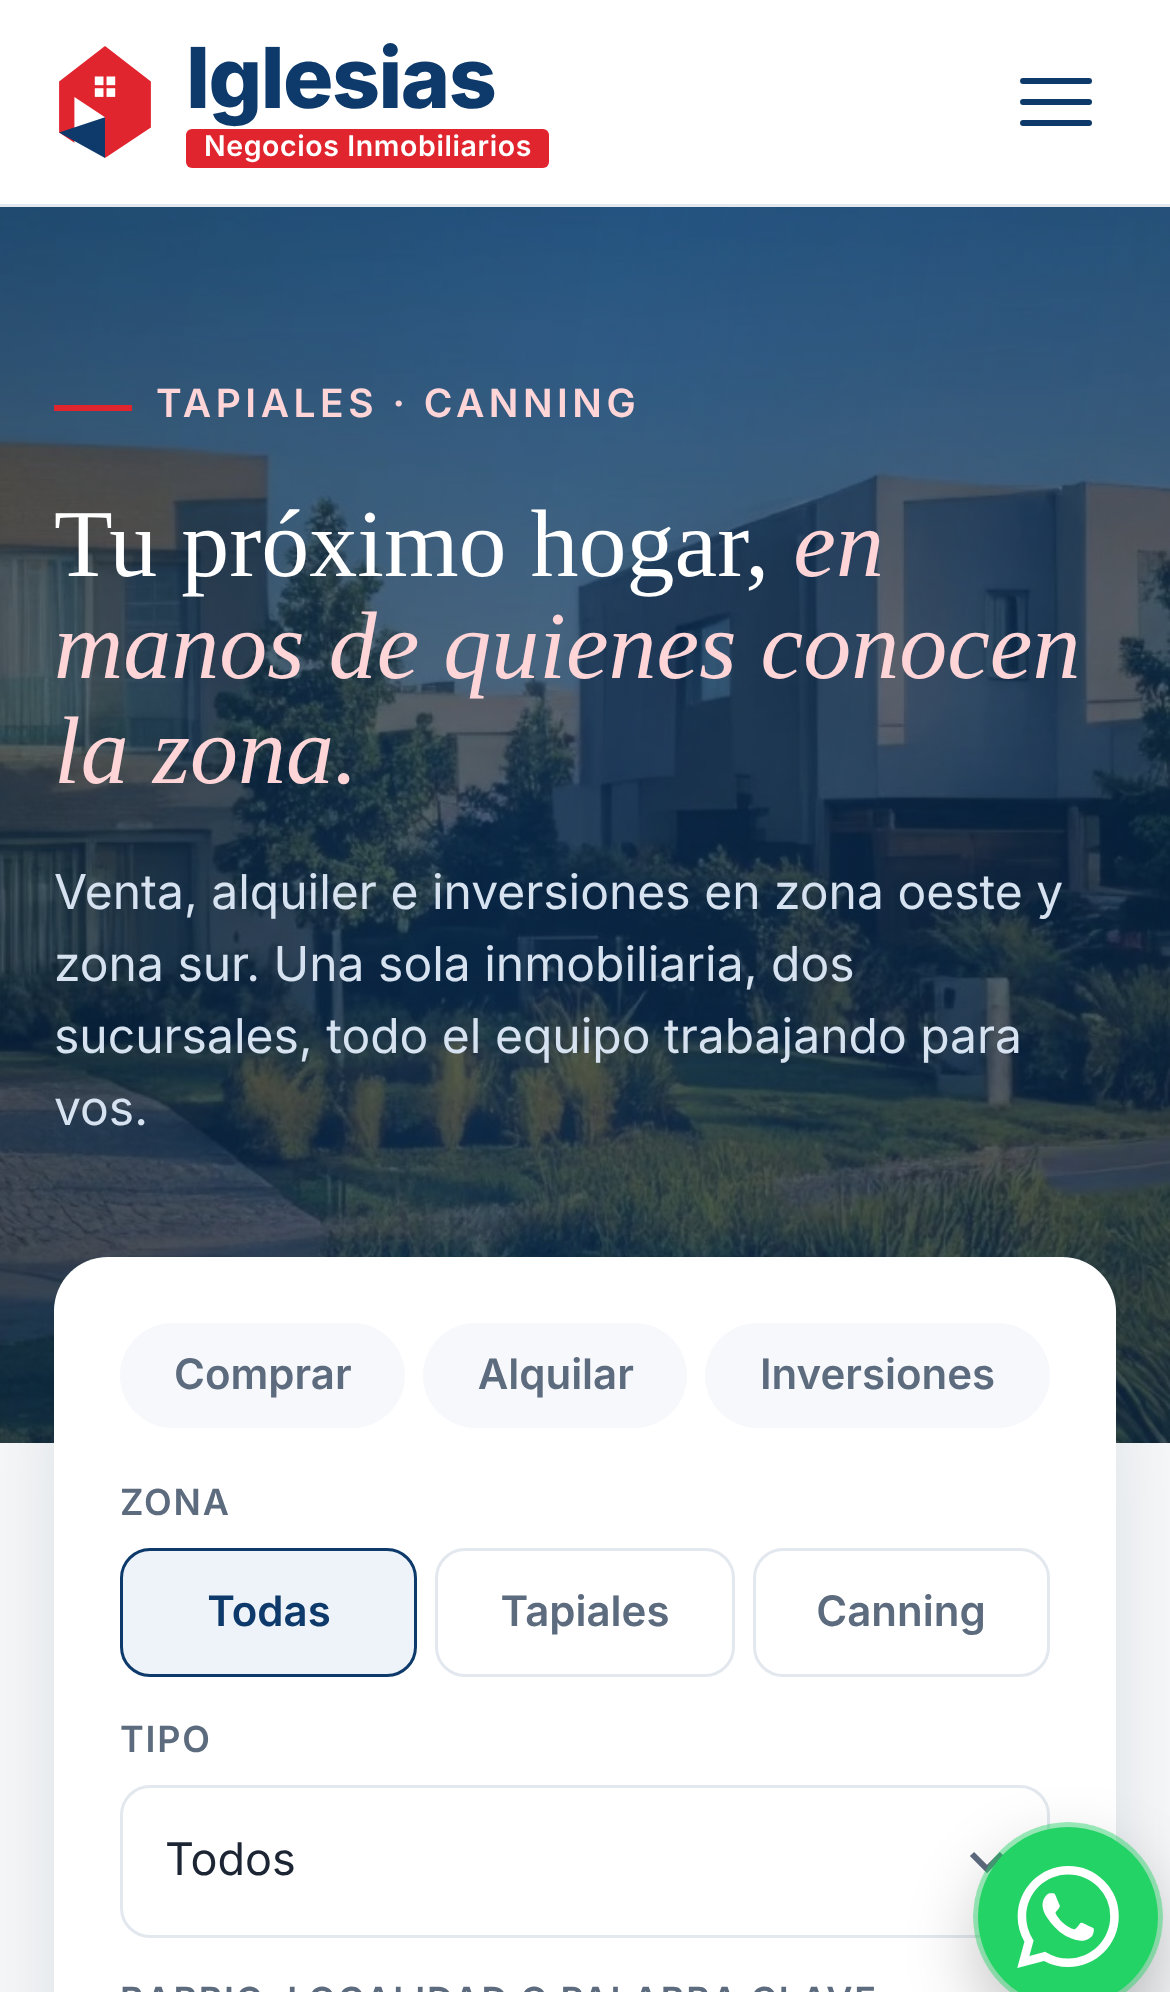
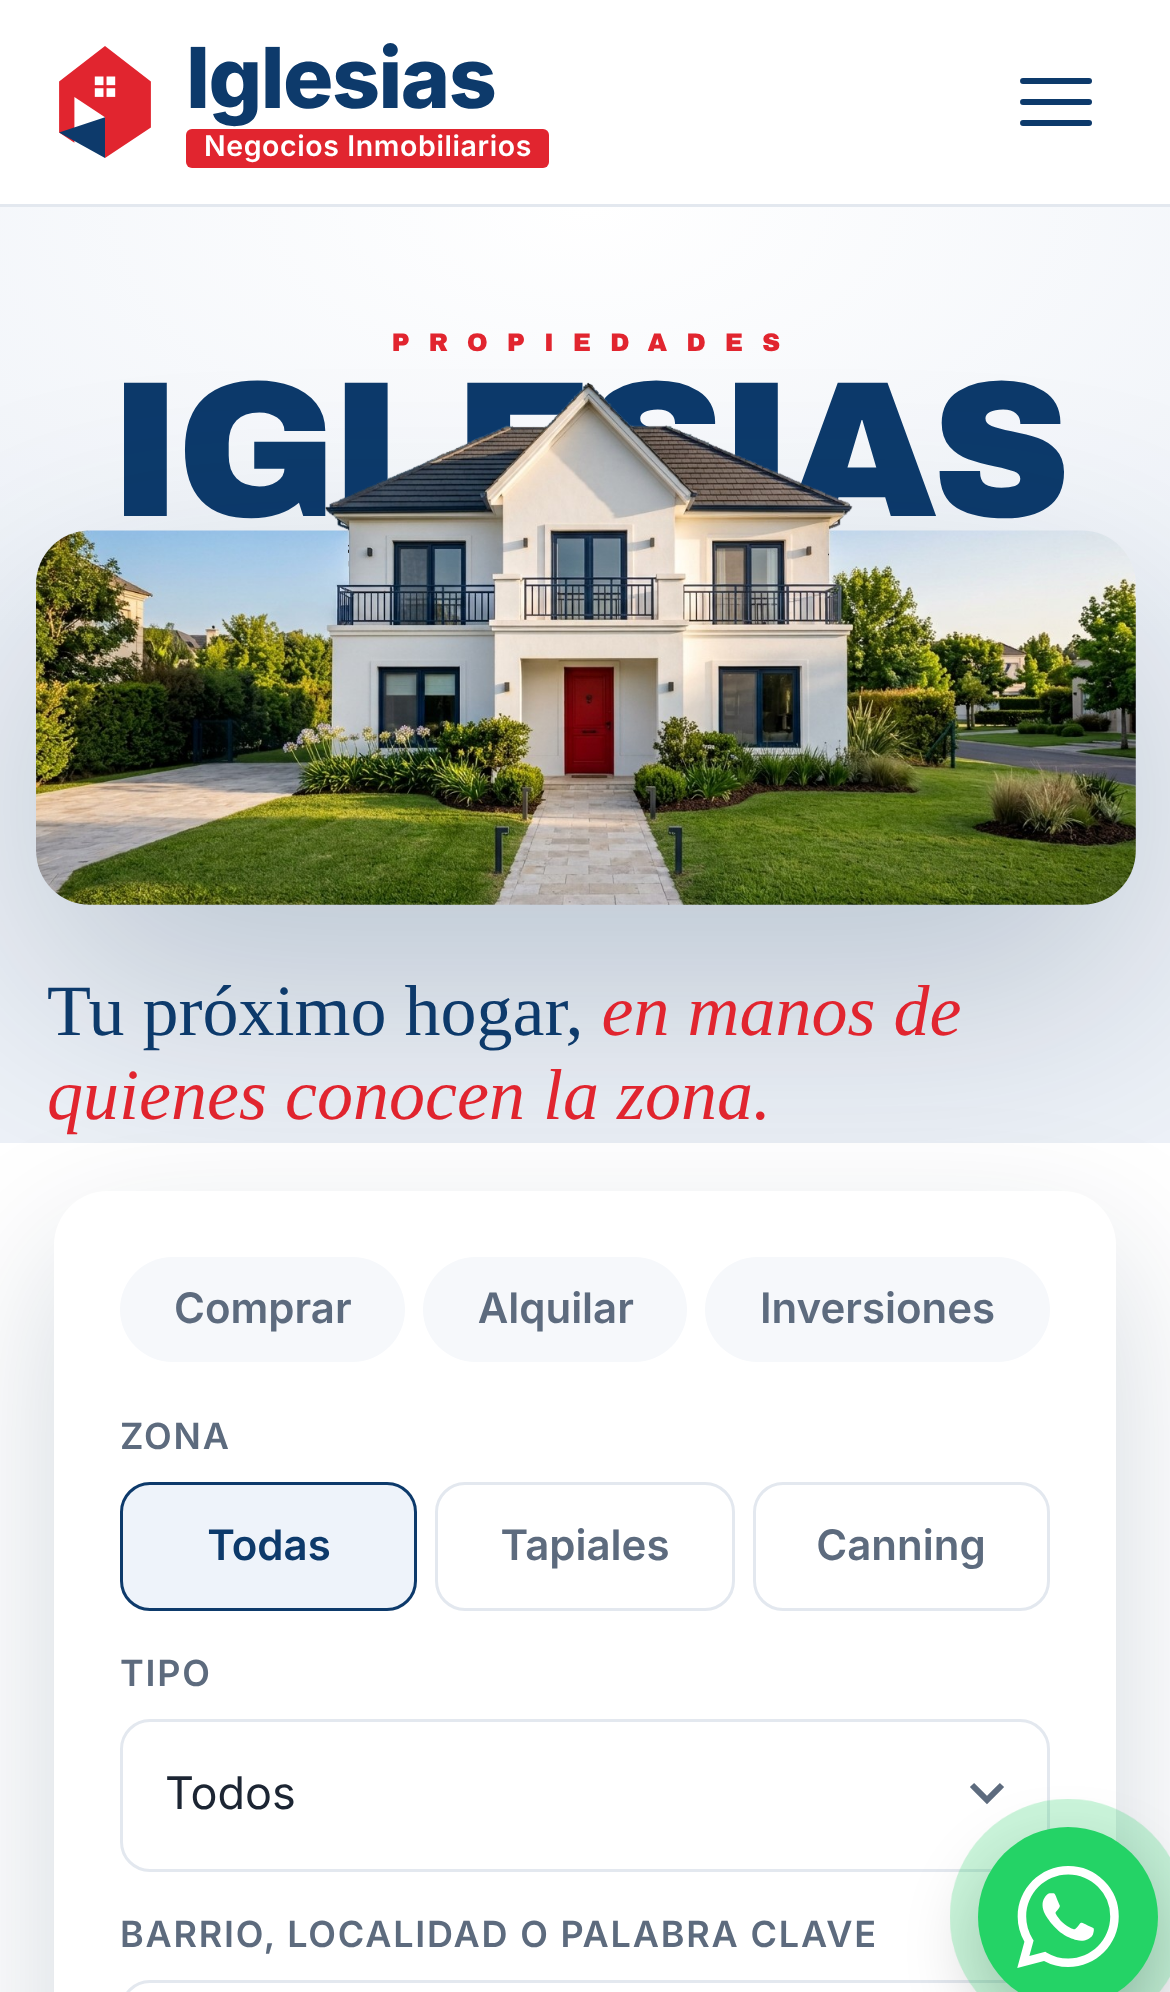
Actualizar README y capturas con el hero animado
Claude-Session: https://claude.ai/code/session_01PrfjrqoyK1Wb3rNtsjbEef

diff --git a/README.md b/README.md
@@ -6,6 +6,12 @@ Propuesta de diseño para unificar en **una sola web** las sucursales de **Tapia
 
 ![Vista previa](docs/preview.png)
 
+## Hero animado
+
+![Animación del hero](docs/hero-animacion.gif)
+
+La foto carga como una imagen normal; después el recuadro se recorta desde arriba y el techo de la casa queda "afuera" del marco, tapando parte de "IGLESIAS". Son dos capas de la misma imagen: `img/hero-casa.jpg` (foto completa, recortada por el marco) y `img/hero-casa-techo.png` (solo la casa, sin cielo). Respeta la opción "reducir movimiento" del sistema.
+
 ## Qué funciona
 
 - **Buscador y filtros:** operación (comprar, alquilar, inversiones), zona (Tapiales / Canning), tipo y texto libre. Los links del menú, de los servicios y de las sucursales aplican el filtro que corresponde.
